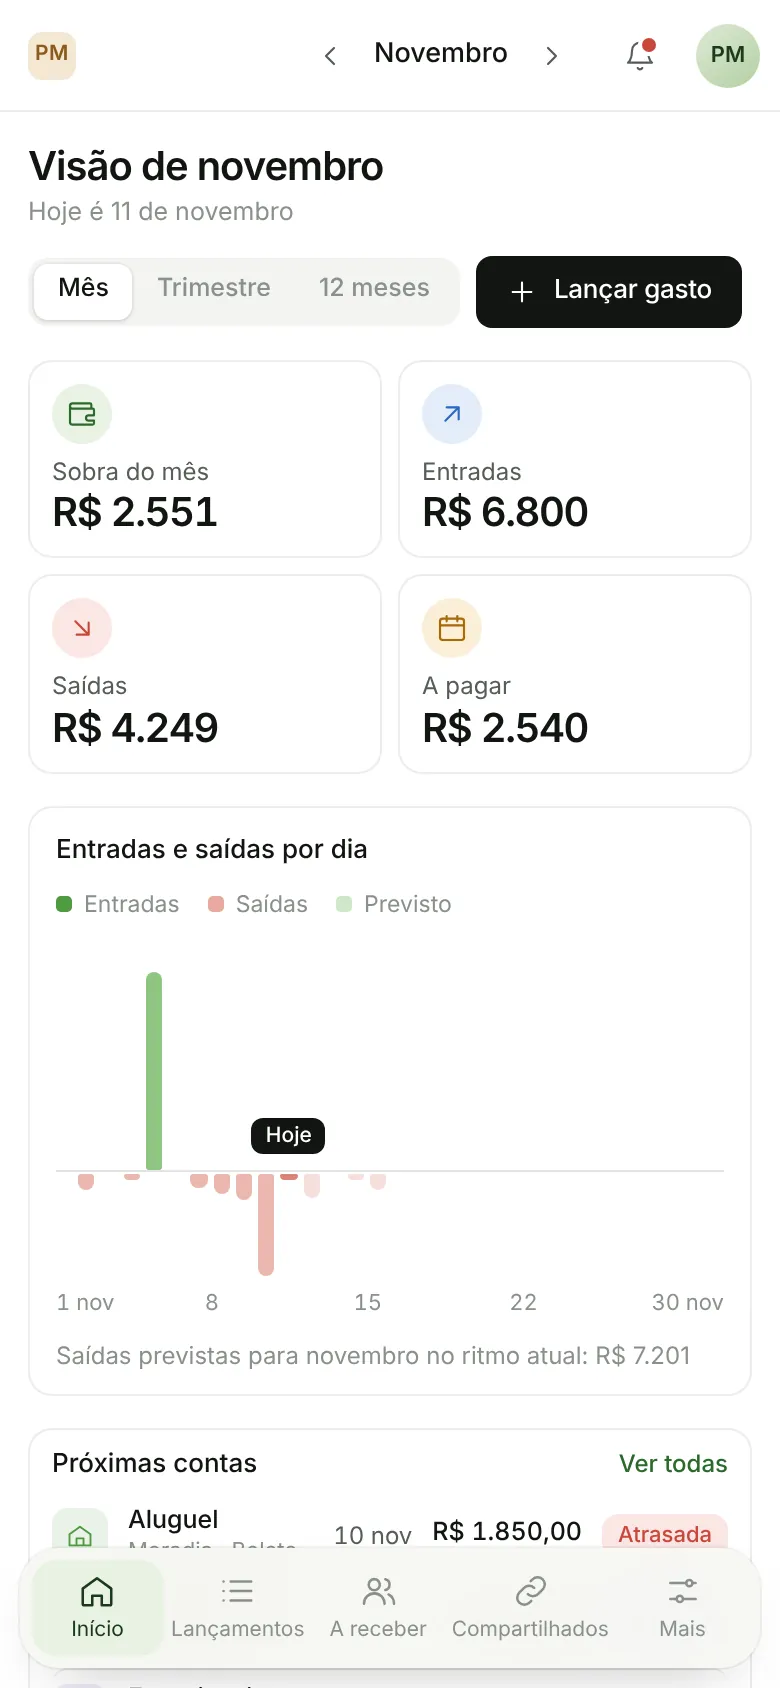
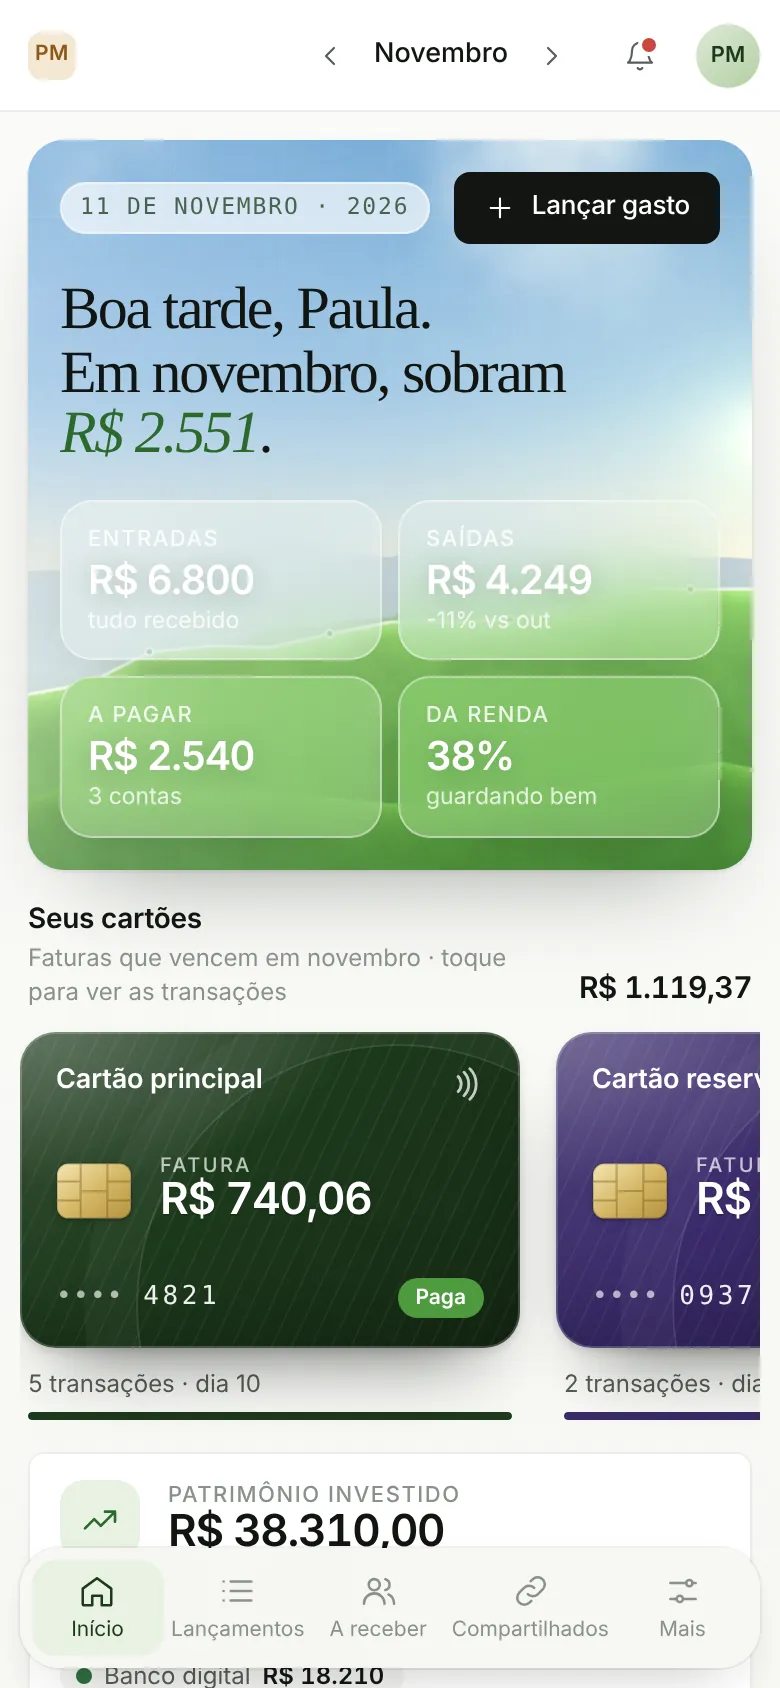
Portfólio: prints novos do Controle de Gastos (cartões e investimentos)
Claude-Session: https://claude.ai/code/session_01BhMa7XBWZ8oRwRaehK6bQc

diff --git a/radar-assessor/templates/home.html b/radar-assessor/templates/home.html
@@ -387,8 +387,9 @@ dialog.zoom p { color: rgba(255,255,255,0.88); text-align: center; margin: 12px 
         <h3 id="tit-gastos">Controle de Gastos</h3>
         <p>Controle financeiro completo, com login próprio para cada pessoa: quanto sobra no mês, o que vence, onde o dinheiro está indo e quem te deve.</p>
         <ul class="feitos">
-          <li><span><b>Início:</b> sobra do mês, entradas, saídas, contas a pagar e gráfico por dia, trimestre ou 12 meses.</span></li>
+          <li><span><b>Início:</b> sobra do mês, entradas, saídas, contas a pagar e as faturas de cada cartão de crédito.</span></li>
           <li><span><b>Lançamentos</b> com busca e filtros, gastos fixos e parcelados, comprovantes anexados e importação de planilha.</span></li>
+          <li><span><b>Investimentos</b> por banco e corretora: patrimônio, rendimento, onde está o dinheiro e o que dá para resgatar hoje.</span></li>
           <li><span><b>Orçamento por categoria</b> com alerta a partir de 80% e sugestão de limites pela média.</span></li>
           <li><span><b>A receber e compartilhados:</b> quem te deve, pagamentos em partes e divisão de gastos entre duas contas por convite.</span></li>
         </ul>
@@ -399,14 +400,15 @@ dialog.zoom p { color: rgba(255,255,255,0.88); text-align: center; margin: 12px 
         <div class="com-celular" style="position: relative">
           <div class="janela">
             <div class="janela-barra" aria-hidden="true"><i></i><i></i><i></i><span>Controle de Gastos</span></div>
-            <button class="palco" type="button" aria-label="Ver tela em tamanho grande"><img src="/portfolio/gastos-inicio.webp" width="1600" height="1000" alt="Visão do mês com sobra, entradas, saídas e contas a pagar" loading="lazy"></button>
+            <button class="palco" type="button" aria-label="Ver tela em tamanho grande"><img src="/portfolio/gastos-inicio.webp" width="1600" height="1000" alt="Visão do mês com sobra, entradas, saídas e cartões" loading="lazy"></button>
           </div>
           <div class="celular"><img src="/portfolio/gastos-celular.webp" width="780" height="1688" alt="Visão do mês no celular" loading="lazy"></div>
         </div>
-        <div class="legenda" aria-live="polite"><span><b>Início</b> · o mês em um olhar</span></div>
+        <div class="legenda" aria-live="polite"><span><b>Início</b> · o mês e os cartões em um olhar</span></div>
         <div class="miniaturas" role="group" aria-label="Telas do Controle de Gastos">
-          <button type="button" aria-pressed="true" data-src="/portfolio/gastos-inicio.webp" data-tit="Início" data-txt="o mês em um olhar" data-alt="Visão do mês com sobra, entradas, saídas e contas a pagar"><img src="/portfolio/gastos-inicio.webp" alt="" loading="lazy" width="1600" height="1000"><span class="sr">Início</span></button>
+          <button type="button" aria-pressed="true" data-src="/portfolio/gastos-inicio.webp" data-tit="Início" data-txt="o mês e os cartões em um olhar" data-alt="Visão do mês com sobra, entradas, saídas e cartões"><img src="/portfolio/gastos-inicio.webp" alt="" loading="lazy" width="1600" height="1000"><span class="sr">Início</span></button>
           <button type="button" aria-pressed="false" data-src="/portfolio/gastos-lancamentos.webp" data-tit="Lançamentos" data-txt="busca, filtros e status de pagamento" data-alt="Lista de lançamentos do mês"><img src="/portfolio/gastos-lancamentos.webp" alt="" loading="lazy" width="1600" height="1000"><span class="sr">Lançamentos</span></button>
+          <button type="button" aria-pressed="false" data-src="/portfolio/gastos-investimentos.webp" data-tit="Investimentos" data-txt="patrimônio por banco e corretora" data-alt="Investimentos com patrimônio e distribuição por classe"><img src="/portfolio/gastos-investimentos.webp" alt="" loading="lazy" width="1600" height="1000"><span class="sr">Investimentos</span></button>
           <button type="button" aria-pressed="false" data-src="/portfolio/gastos-orcamento.webp" data-tit="Orçamento" data-txt="limite por categoria" data-alt="Orçamento mensal por categoria"><img src="/portfolio/gastos-orcamento.webp" alt="" loading="lazy" width="1600" height="1000"><span class="sr">Orçamento</span></button>
           <button type="button" aria-pressed="false" data-src="/portfolio/gastos-relatorios.webp" data-tit="Relatórios" data-txt="12 meses e gastos por categoria" data-alt="Relatórios com gráfico de 12 meses e categorias"><img src="/portfolio/gastos-relatorios.webp" alt="" loading="lazy" width="1600" height="1000"><span class="sr">Relatórios</span></button>
           <button type="button" aria-pressed="false" data-src="/portfolio/gastos-receber.webp" data-tit="A receber" data-txt="quem te deve e quanto" data-alt="Valores a receber de outras pessoas"><img src="/portfolio/gastos-receber.webp" alt="" loading="lazy" width="1600" height="1000"><span class="sr">A receber</span></button>
